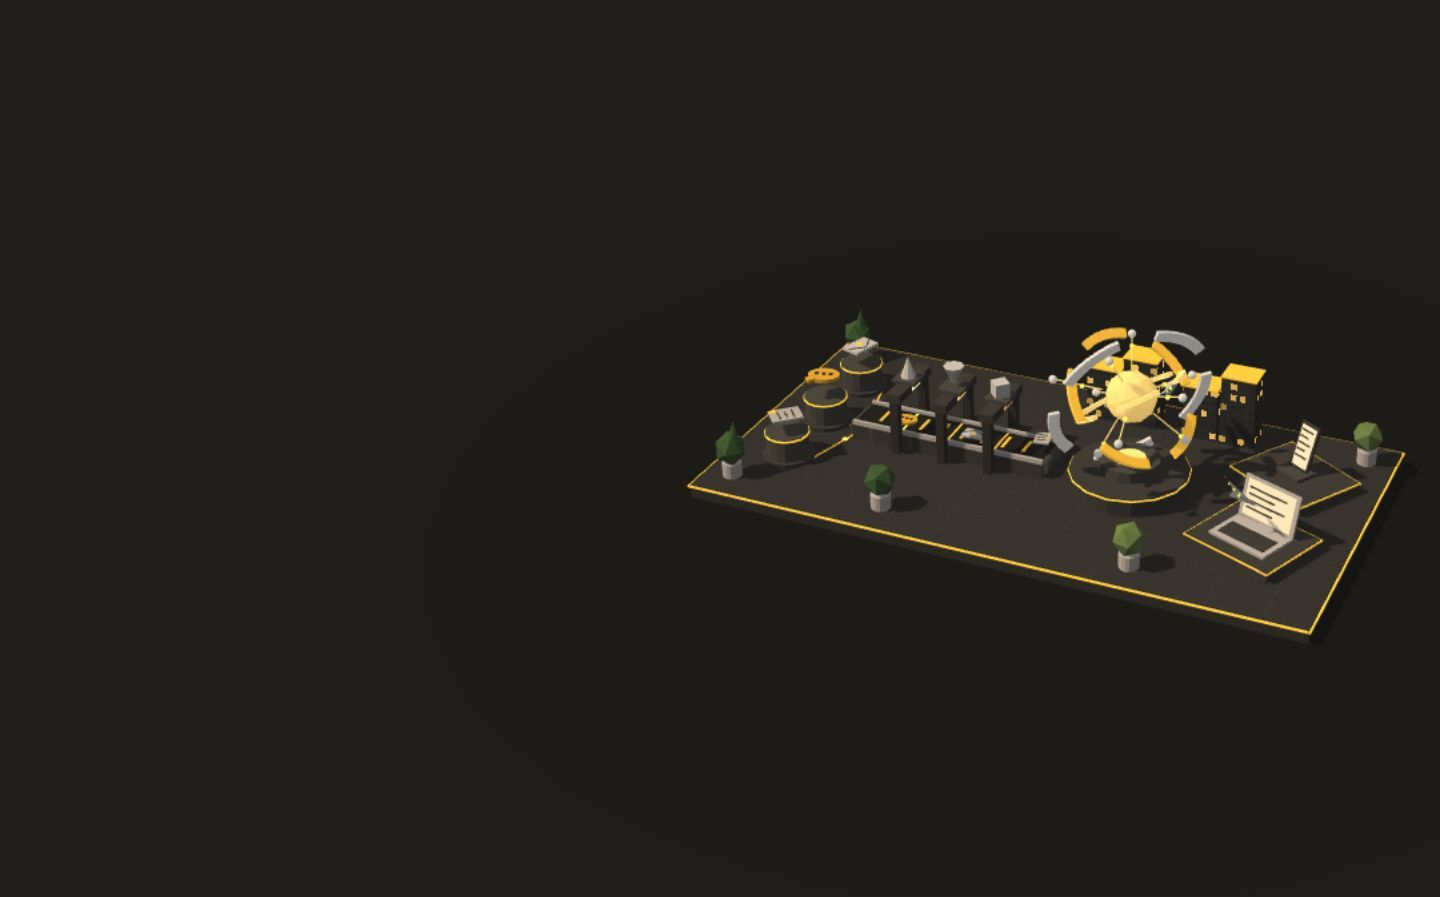
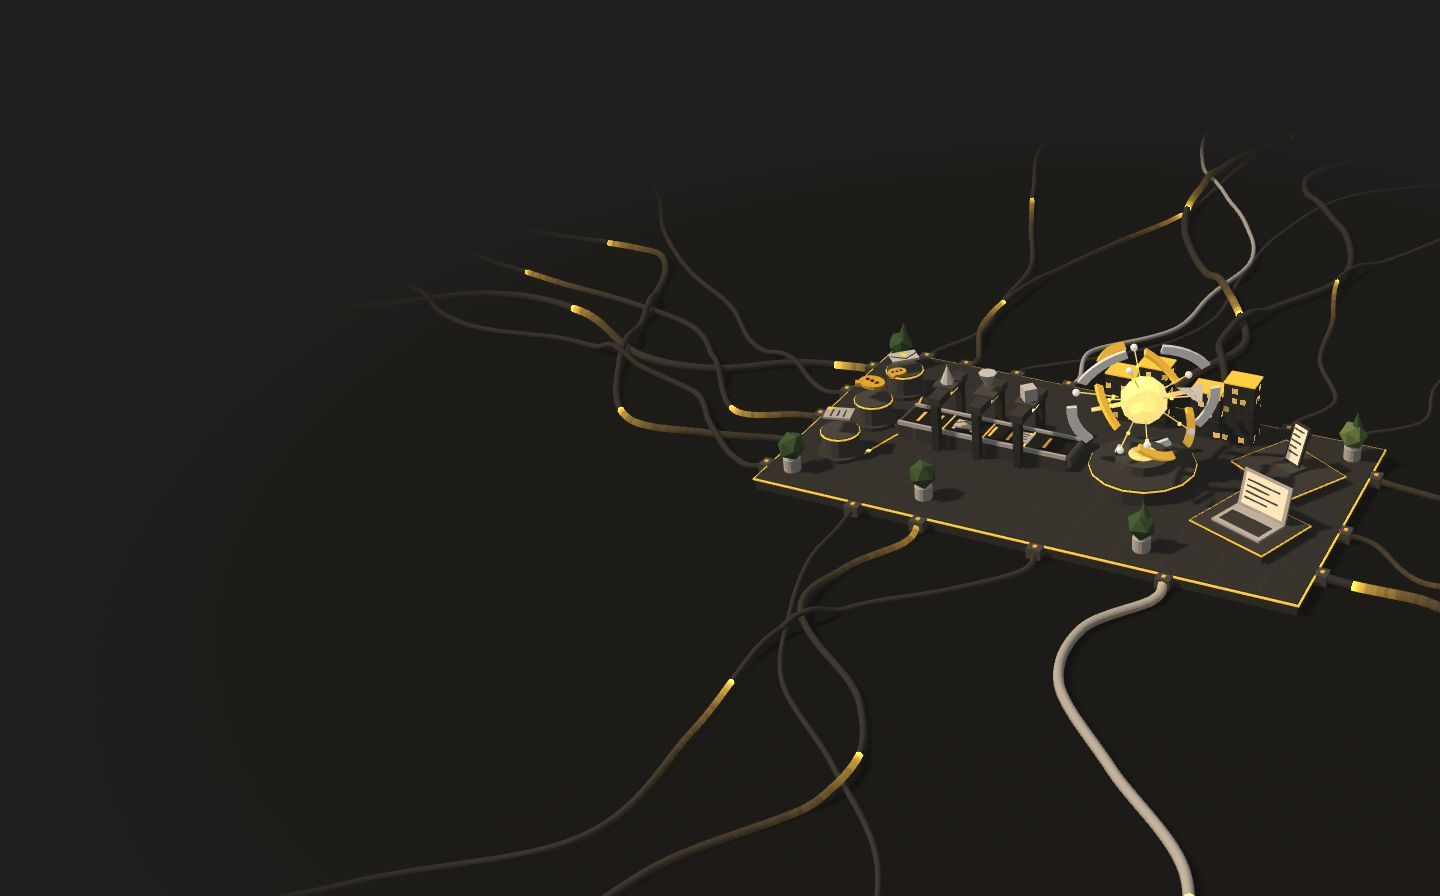
Contact: electric power cables around the hub

diff --git a/city3d.js b/city3d.js
@@ -44,7 +44,10 @@
     solar: lin('#2C3036'),
     floor: lin('#1B1A18'),
     belt: lin('#262522'),
-    screen: lin('#FFF1CF')
+    screen: lin('#FFF1CF'),
+    cable: lin('#3E3B37'),
+    cableLight: lin('#BDB9B1'),
+    plug: lin('#55524C')
   };
 
   /* ---------- tiny math ---------- */
@@ -240,11 +243,12 @@
 
   var VS = '#version 300 es\n' + VS_COMMON + [
     '',
+    'layout(location=6) in vec4 aU;',
     'uniform mat4 uVP;uniform mat4 uLVP;',
-    'out vec3 vN;out vec3 vW;out vec3 vO;out vec3 vON;out vec4 vLS;flat out vec4 vCol;flat out vec4 vExt;',
+    'out vec3 vN;out vec3 vW;out vec3 vO;out vec3 vON;out vec4 vLS;out vec4 vU;flat out vec4 vCol;flat out vec4 vExt;',
     'void main(){',
     '  mat3 R;vec3 w=place(R);',
-    '  vN=normalize(R*(aN/iScl.xyz));vW=w;vO=aP*iScl.xyz;vON=aN;vCol=iCol;vExt=iExt;',
+    '  vN=normalize(R*(aN/iScl.xyz));vW=w;vO=aP*iScl.xyz;vON=aN;vCol=iCol;vExt=iExt;vU=aU;',
     '  vLS=uLVP*vec4(w,1.);',
     '  gl_Position=uVP*vec4(w,1.);',
     '}'
@@ -253,7 +257,8 @@
   var FS = [
     '#version 300 es',
     'precision highp float;precision highp sampler2DShadow;',
-    'in vec3 vN;in vec3 vW;in vec3 vO;in vec3 vON;in vec4 vLS;flat in vec4 vCol;flat in vec4 vExt;',
+    'in vec3 vN;in vec3 vW;in vec3 vO;in vec3 vON;in vec4 vLS;in vec4 vU;flat in vec4 vCol;flat in vec4 vExt;',
+    'uniform vec3 uVolt;uniform float uRise;',
     'uniform sampler2DShadow uSM;uniform float uUseSM;',
     'uniform vec3 uL;uniform vec3 uSun;uniform vec3 uSky;uniform vec3 uGnd;uniform vec3 uFog;uniform vec3 uWin;',
     'uniform vec3 uEye;uniform float uFogD;uniform float uRad;uniform float uT;',
@@ -288,6 +293,13 @@
     '  if(ty>2.5&&ty<3.5)em+=base*vCol.a;',
     '  if(ty>3.5&&ty<4.5)em+=base*vCol.a*(0.15+0.85*step(0.72,fract(uT*0.55+vExt.y)));',
     '  if(ty>4.5&&ty<5.5)em+=base*vCol.a;',
+    '  if(ty>5.5&&ty<6.5){',
+    // electricity running along a cable: vU = (distance along cable, speed, spacing, phase)
+    '    float d=fract((uT*vU.y-vU.x)/vU.z+vU.w)*vU.z;',
+    '    float crack=0.55+0.45*h1(vec2(floor(vU.x*9.),floor(uT*24.)));',
+    '    float on=step(0.3,fract(uT*0.07+vU.w*3.7))*smoothstep(1.3,2.6,uRise);',
+    '    em+=uVolt*(exp(-d*1.5)*0.9+exp(-d*9.)*2.2+exp(-d*0.45)*0.1)*crack*on;',
+    '  }',
     '  float d=max(dot(n,uL),0.);',
     '  float sh=d>0.?shade():1.;',
     '  vec3 hemi=mix(uGnd,uSky,n.y*0.5+0.5);',
@@ -329,6 +341,10 @@
     gl.enableVertexAttribArray(0); gl.vertexAttribPointer(0, 3, gl.FLOAT, false, 0, 0);
     var nb = gl.createBuffer(); gl.bindBuffer(gl.ARRAY_BUFFER, nb); gl.bufferData(gl.ARRAY_BUFFER, new Float32Array(geo.n), gl.STATIC_DRAW);
     gl.enableVertexAttribArray(1); gl.vertexAttribPointer(1, 3, gl.FLOAT, false, 0, 0);
+    if (geo.u) {
+      var ub = gl.createBuffer(); gl.bindBuffer(gl.ARRAY_BUFFER, ub); gl.bufferData(gl.ARRAY_BUFFER, new Float32Array(geo.u), gl.STATIC_DRAW);
+      gl.enableVertexAttribArray(6); gl.vertexAttribPointer(6, 4, gl.FLOAT, false, 0, 0);
+    }
     this.ib = gl.createBuffer(); gl.bindBuffer(gl.ARRAY_BUFFER, this.ib);
     gl.bufferData(gl.ARRAY_BUFFER, this.data.byteLength, dynamic ? gl.DYNAMIC_DRAW : gl.STATIC_DRAW);
     for (var i = 0; i < 4; i++) {
@@ -766,9 +782,129 @@
   var HUB = { INT: 1.5, DROP: 0.7, BELT: 3.6, LIFT: 0.8, PROC: 0.5, FLY: 2.2, SHOW: 1.3 };
   HUB.LIFE = HUB.DROP + HUB.BELT + HUB.LIFT + HUB.PROC + HUB.FLY + HUB.SHOW;
 
+  /* ---------- power cables around the hub ----------
+   * Irregular cables lying on the floor, plugged into the platform sides.
+   * Pulses of light travel along them (inward = power in, outward = replies out);
+   * each plug's LED flashes when a pulse reaches it.
+   */
+  function catmull(pts, steps) {
+    var out = [];
+    for (var i = 0; i < pts.length - 1; i++) {
+      var p0 = pts[Math.max(0, i - 1)], p1 = pts[i], p2 = pts[i + 1], p3 = pts[Math.min(pts.length - 1, i + 2)];
+      for (var s = 0; s < steps; s++) {
+        var t = s / steps, t2 = t * t, t3 = t2 * t;
+        out.push([0, 1, 2].map(function (k) {
+          return 0.5 * ((2 * p1[k]) + (-p0[k] + p2[k]) * t + (2 * p0[k] - 5 * p1[k] + 4 * p2[k] - p3[k]) * t2 + (-p0[k] + 3 * p1[k] - 3 * p2[k] + p3[k]) * t3);
+        }));
+      }
+    }
+    out.push(pts[pts.length - 1].slice());
+    return out;
+  }
+  function tube(g, path, r, sides, prm, reverse) {
+    var n = path.length, len = [0], i, k;
+    for (i = 1; i < n; i++) len.push(len[i - 1] + Math.hypot(path[i][0] - path[i - 1][0], path[i][1] - path[i - 1][1], path[i][2] - path[i - 1][2]));
+    var L = len[n - 1], rings = [];
+    for (i = 0; i < n; i++) {
+      var a = path[Math.max(0, i - 1)], b = path[Math.min(n - 1, i + 1)];
+      var T = norm([b[0] - a[0], b[1] - a[1], b[2] - a[2]]), B = norm(cross(T, [0, 1, 0])), N = cross(B, T), ring = [];
+      for (k = 0; k < sides; k++) {
+        var ang = k / sides * Math.PI * 2, c = Math.cos(ang), s = Math.sin(ang);
+        var dir = [N[0] * c + B[0] * s, N[1] * c + B[1] * s, N[2] * c + B[2] * s];
+        ring.push({ p: [path[i][0] + dir[0] * r, path[i][1] + dir[1] * r, path[i][2] + dir[2] * r], n: dir });
+      }
+      rings.push(ring);
+    }
+    function vtx(ri, k) {
+      var q = rings[ri][k % sides], u = reverse ? L - len[ri] : len[ri];
+      g.p.push(q.p[0], q.p[1], q.p[2]); g.n.push(q.n[0], q.n[1], q.n[2]); g.u.push(u, prm.sp, prm.per, prm.ph);
+    }
+    for (i = 0; i < n - 1; i++) for (k = 0; k < sides; k++) {
+      vtx(i, k); vtx(i + 1, k); vtx(i + 1, k + 1);
+      vtx(i, k); vtx(i + 1, k + 1); vtx(i, k + 1);
+    }
+    return L;
+  }
+
+  City.prototype.buildCables = function (R) {
+    var gl = this.gl, S = this.S, H = this.hub, Y0 = H.Y0, hx = 8.7, hz = 4.6;
+    // [plug x, plug z, outward normal x, z, outgoing?]
+    var plugs = [
+      [-7.5, -hz, 0, -1, 0], [-6.0, -hz, 0, -1, 0], [-4.1, -hz, 0, -1, 1], [-2.2, -hz, 0, -1, 0], [1.0, -hz, 0, -1, 1],
+      [3.2, -hz, 0, -1, 0], [5.5, -hz, 0, -1, 0], [7.6, -hz, 0, -1, 1],
+      [-5.2, hz, 0, 1, 0], [-3.0, hz, 0, 1, 1], [0.8, hz, 0, 1, 1], [4.8, hz, 0, 1, 1],
+      [-hx, -3.4, -1, 0, 0], [-hx, -1.6, -1, 0, 1], [-hx, 0.2, -1, 0, 0], [-hx, 1.9, -1, 0, 0], [-hx, 3.6, -1, 0, 1],
+      [hx, -3.0, 1, 0, 1], [hx, 0.4, 1, 0, 0], [hx, 2.8, 1, 0, 1]
+    ];
+    var dark = { p: [], n: [], u: [] }, light = { p: [], n: [], u: [] }, self = this, laid = [];
+    this.cables = [];
+    plugs.forEach(function (pl, ci) {
+      var nx = pl[2], nz = pl[3], tx = -nz, tz = nx;                      // outward normal and edge tangent
+      var turn = (R() - 0.5) * 1.3, dx = nx * Math.cos(turn) - nz * Math.sin(turn), dz = nx * Math.sin(turn) + nz * Math.cos(turn);
+      var far = 22 + R() * 12, r = 0.07 + R() * 0.08, amp = 0.8 + R() * 2.2, fr = 0.18 + R() * 0.22, ph0 = R() * 6.28;
+      var plugY = 0.22;
+      var start = [pl[0] + nx * 0.25, plugY, pl[1] + nz * 0.25];
+      var pts = [start, [pl[0] + nx * 1.1, r + 0.02, pl[1] + nz * 1.1]];
+      [3, 5.5, 8.5, 12, 16, 21, 27, far + 8].forEach(function (d, j) {
+        var w = Math.min(1, d / 9);                                      // bend from the edge normal toward the far direction
+        var ux = nx * (1 - w) + dx * w, uz = nz * (1 - w) + dz * w, ul = Math.hypot(ux, uz); ux /= ul; uz /= ul;
+        var lat = Math.sin(d * fr + ph0) * amp * Math.min(1, d / 5) + (R() - 0.5) * 1.2;
+        var px = pl[0] + ux * d + -uz * lat, pz = pl[1] + uz * d + ux * lat;
+        // never run back under the platform
+        if (Math.abs(px) < hx + 0.6 && Math.abs(pz) < hz + 0.6) { px += nx * 1.5; pz += nz * 1.5; }
+        pts.push([px, r + 0.02 + (j % 2) * 0.012, pz]);
+      });
+      var path = catmull(pts, 14);
+      // where this cable crosses one laid earlier, lift it so it rests on top
+      var base = path.map(function (q) { return q[1]; });
+      laid.forEach(function (o) {
+        for (var i = 0; i < path.length; i++) {
+          var q = path[i], best = 1e9, by = 0;
+          for (var j = 0; j < o.path.length - 1; j++) {
+            var a = o.path[j], b = o.path[j + 1], ex = b[0] - a[0], ez = b[2] - a[2], ll = ex * ex + ez * ez || 1;
+            var tt = clamp(((q[0] - a[0]) * ex + (q[2] - a[2]) * ez) / ll, 0, 1);
+            var cx2 = a[0] + ex * tt - q[0], cz2 = a[2] + ez * tt - q[2], dd = Math.hypot(cx2, cz2);
+            if (dd < best) { best = dd; by = a[1] + (b[1] - a[1]) * tt; }
+          }
+          if (best < 1.2) {
+            var w = 1 - clamp((best - 0.15) / 1.05, 0, 1); w = w * w * (3 - 2 * w);
+            q[1] = Math.max(q[1], base[i] + (by + o.r + r + 0.01 - base[i]) * w);
+          }
+        }
+      });
+      laid.push({ path: path, r: r });
+      var prm = { sp: (2.2 + R() * 2.4), per: 8 + R() * 9, ph: R() };
+      var L = tube(R() < 0.2 ? light : dark, path, r, 7, prm, !!pl[4]);
+      // connector on the platform side + LED
+      var yaw = Math.atan2(nx, nz);
+      S.box.add(pl[0] + nx * 0.18, plugY - 0.17, pl[1] + nz * 0.18, yaw, 0.46, 0.34, 0.36, 0, C.plug, 0, 0, 0, 0.3);
+      self.cables.push({ x: pl[0] + nx * 0.18, z: pl[1] + nz * 0.18, yaw: yaw, uPlug: pl[4] ? 0 : L, prm: prm, out: !!pl[4] });
+      void tx; void tz; void ci;
+    });
+    [[dark, C.cable, 'cableD'], [light, C.cableLight, 'cableL']].forEach(function (g) {
+      if (!g[0].p.length) return;
+      var b = new Batch(gl, g[0], 1, false);
+      b.add(0, 0, 0, 0, 1, 1, 1, 0, g[1], 0, 6, 0, -100, 0);
+      S[g[2]] = b;
+    });
+  };
+
+  // LED on each plug: flashes when a pulse arrives (same formula as the shader)
+  City.prototype.writePlugs = function () {
+    var D = this.D, t = this.t, Y0 = this.hub.Y0;
+    var power = clamp((this.riseT - 1.3) / 1.3, 0, 1);
+    this.cables.forEach(function (c) {
+      var p = c.prm, d = ((((t * p.sp - c.uPlug) / p.per + p.ph) % 1) + 1) % 1 * p.per;
+      var on = ((t * 0.07 + p.ph * 3.7) % 1) >= 0.3 ? 1 : 0;
+      var fl = Math.exp(-d * 2.2) * on * power;
+      D.box.add(c.x, 0.39, c.z, c.yaw, 0.12, 0.04, 0.12, 0, C.yellow, 0.25 + 3.2 * fl, 3, 0, 0.3);
+      void Y0;
+    });
+  };
+
   City.prototype.buildHub = function (R) {
     var S = this.S, Y0 = 0.4;
-    this.rad = 19; this.flow = -1.4;
+    this.rad = 30; this.flow = -1.4;
     var H = this.hub = {
       Y0: Y0, inbox: -7.0, zs: [-2.2, 0, 2.2], bs: -5.4, be: -0.4, beltY: Y0 + 0.53,
       gates: [-4.3, -2.9, -1.5], core: [2.3, Y0 + 2.75, 0],
@@ -853,6 +989,8 @@
       dv.screen = [dv.hinge[0] + sc[0], dv.hinge[1] + sc[1], dv.hinge[2] + sc[2]];
       dv.delay = d; dv.flash = 0;
     });
+
+    this.buildCables(R);
 
     // plants on the platform corners
     var self = this;
@@ -985,6 +1123,8 @@
       D.box.add(np[0] + (cp[0] - np[0]) * pu, np[1] + (cp[1] - np[1]) * pu - 0.045, np[2] + (cp[2] - np[2]) * pu, 0, 0.09, 0.09, 0.09, 0, C.yellow, 2.6, 3, 0, dc);
     }
 
+    this.writePlugs();
+
     // device screens + check marks
     H.dev.forEach(function (dv) {
       var em = 0.35 + 1.9 * dv.flash;
@@ -1094,6 +1234,7 @@
     gl.uniform1f(u.uFogD, 1 / (Math.hypot(this.eye[0], this.eye[1], this.eye[2]) * 1.9));
     gl.uniform1f(u.uRad, this.rad);
     gl.uniform1f(u.uUseSM, this.useSM ? 1 : 0);
+    gl.uniform3f(u.uVolt, C.yellow[0] * 1.6, C.yellow[1] * 1.6, C.yellow[2] * 1.6);
     gl.activeTexture(gl.TEXTURE0); gl.bindTexture(gl.TEXTURE_2D, this.smTex); gl.uniform1i(u.uSM, 0);
     all.forEach(function (b) { b.draw(); });
     gl.bindVertexArray(null);
